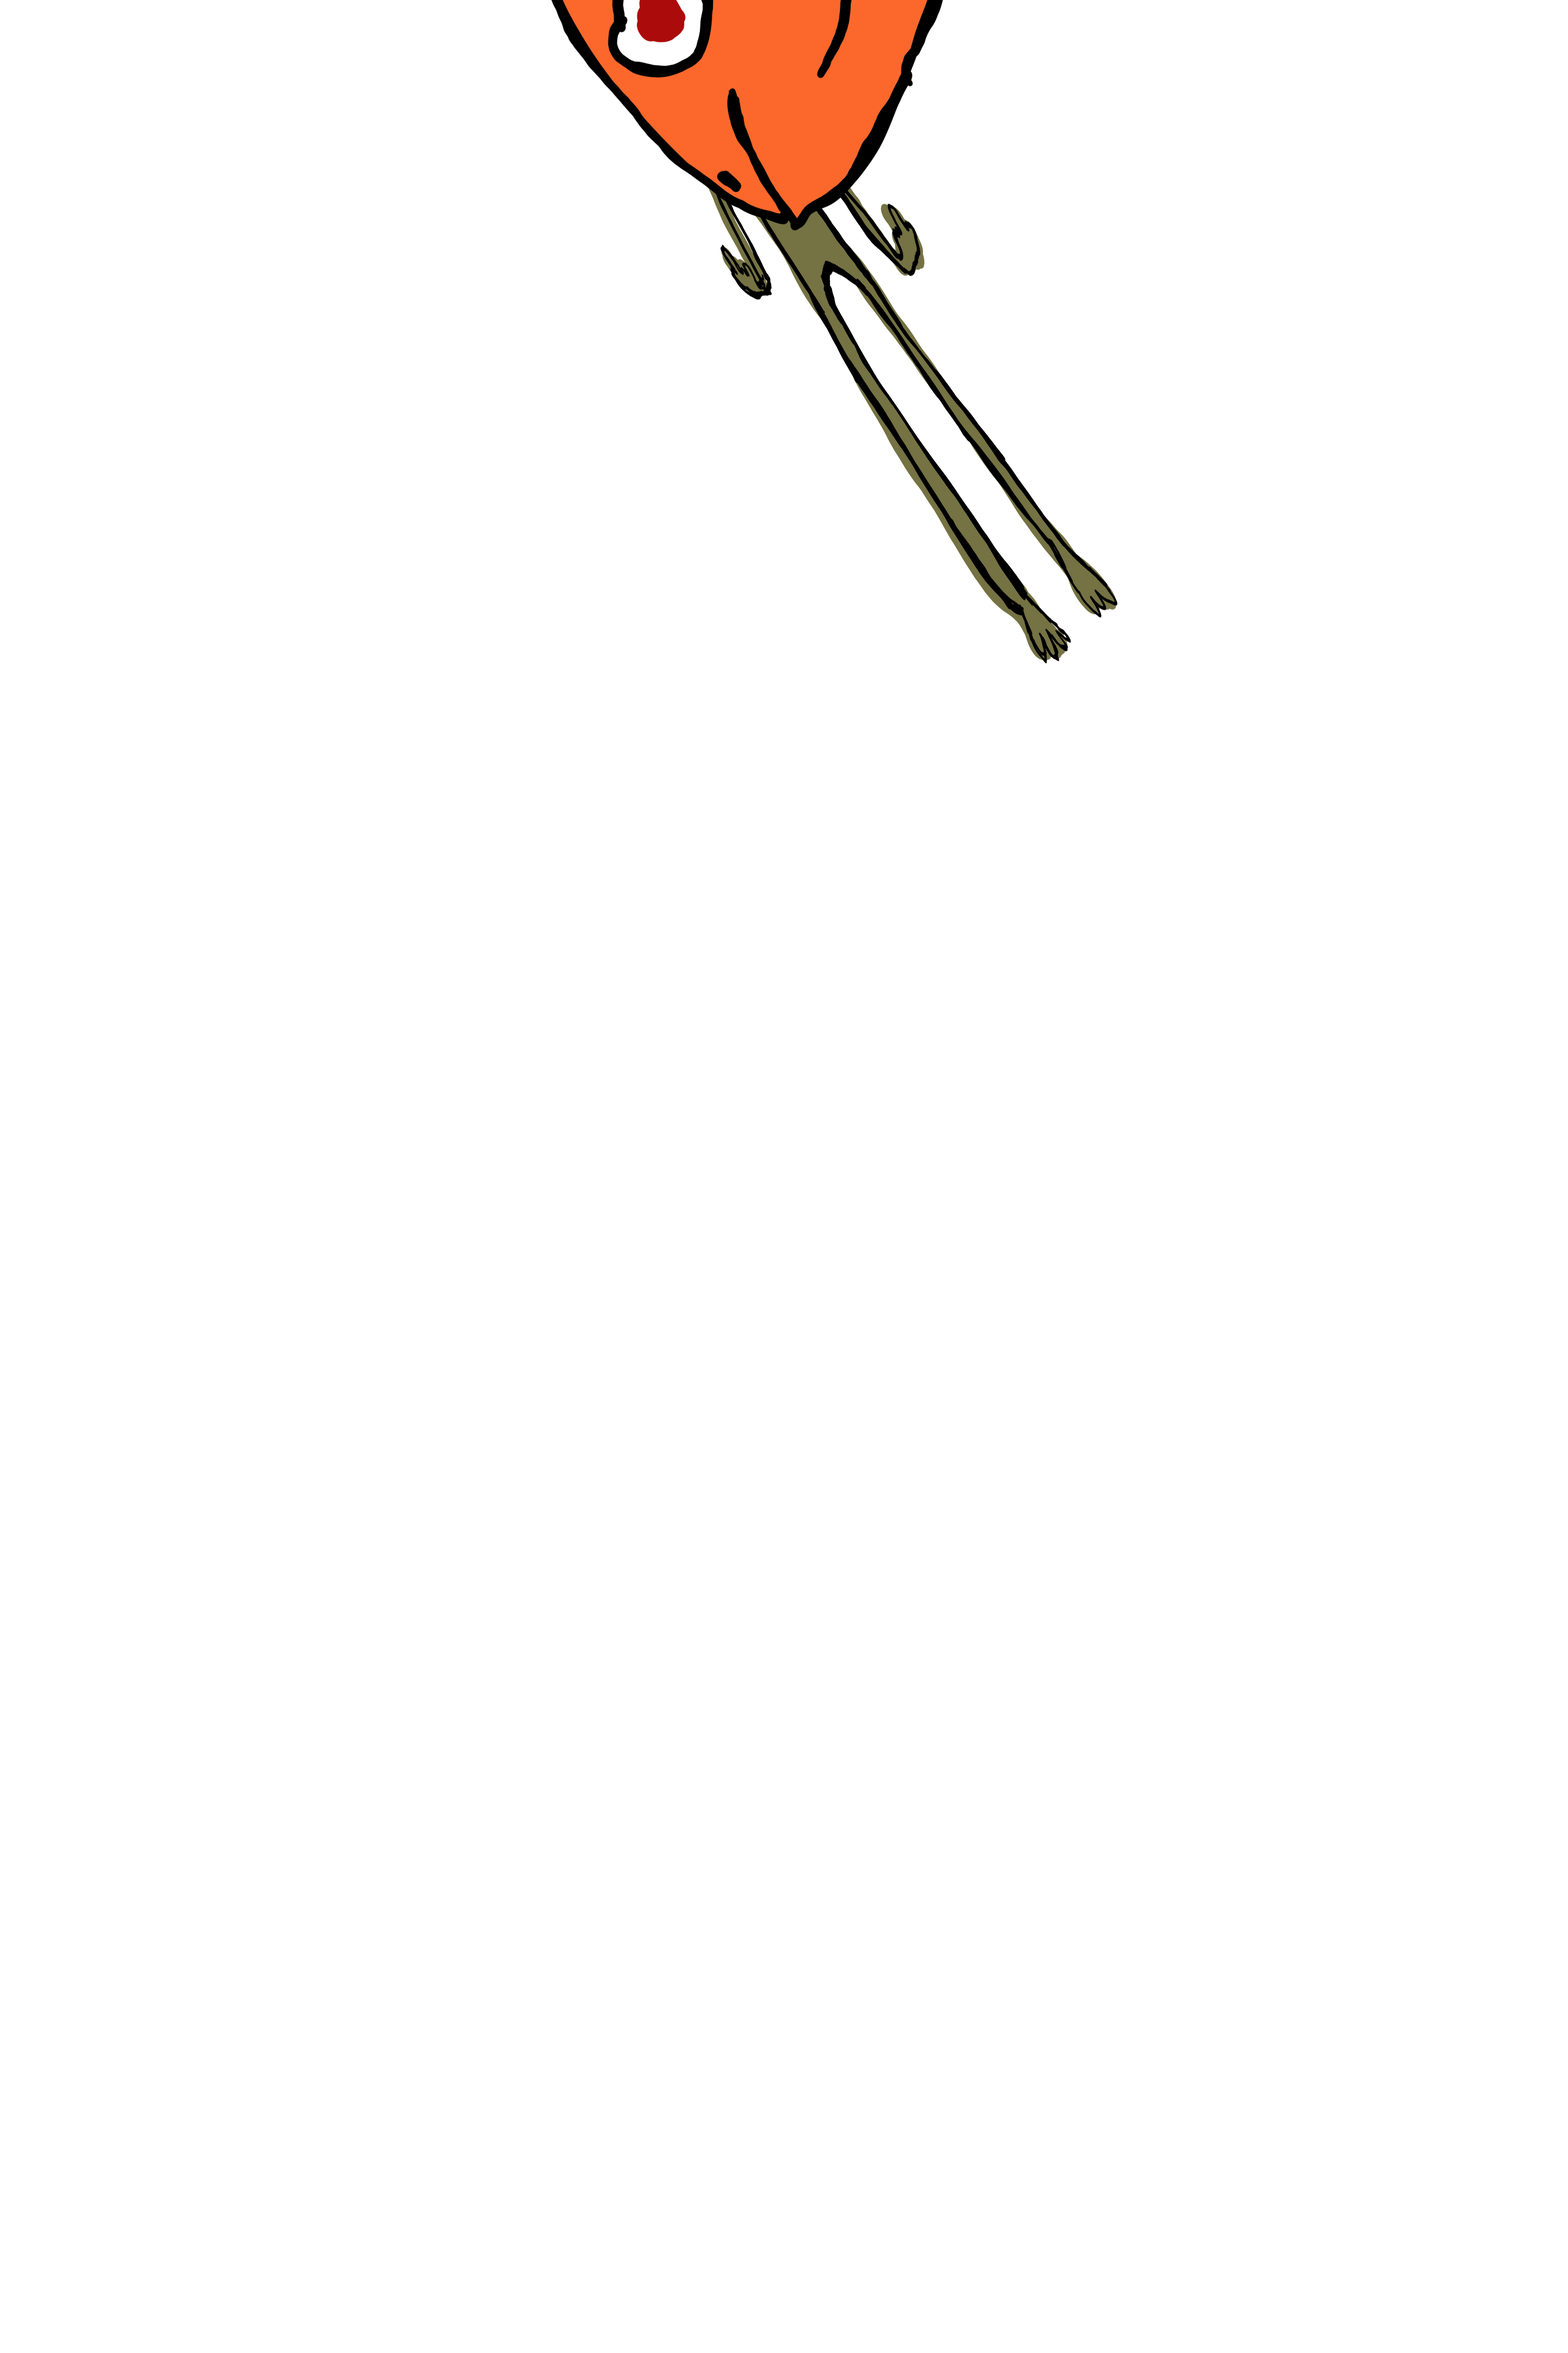
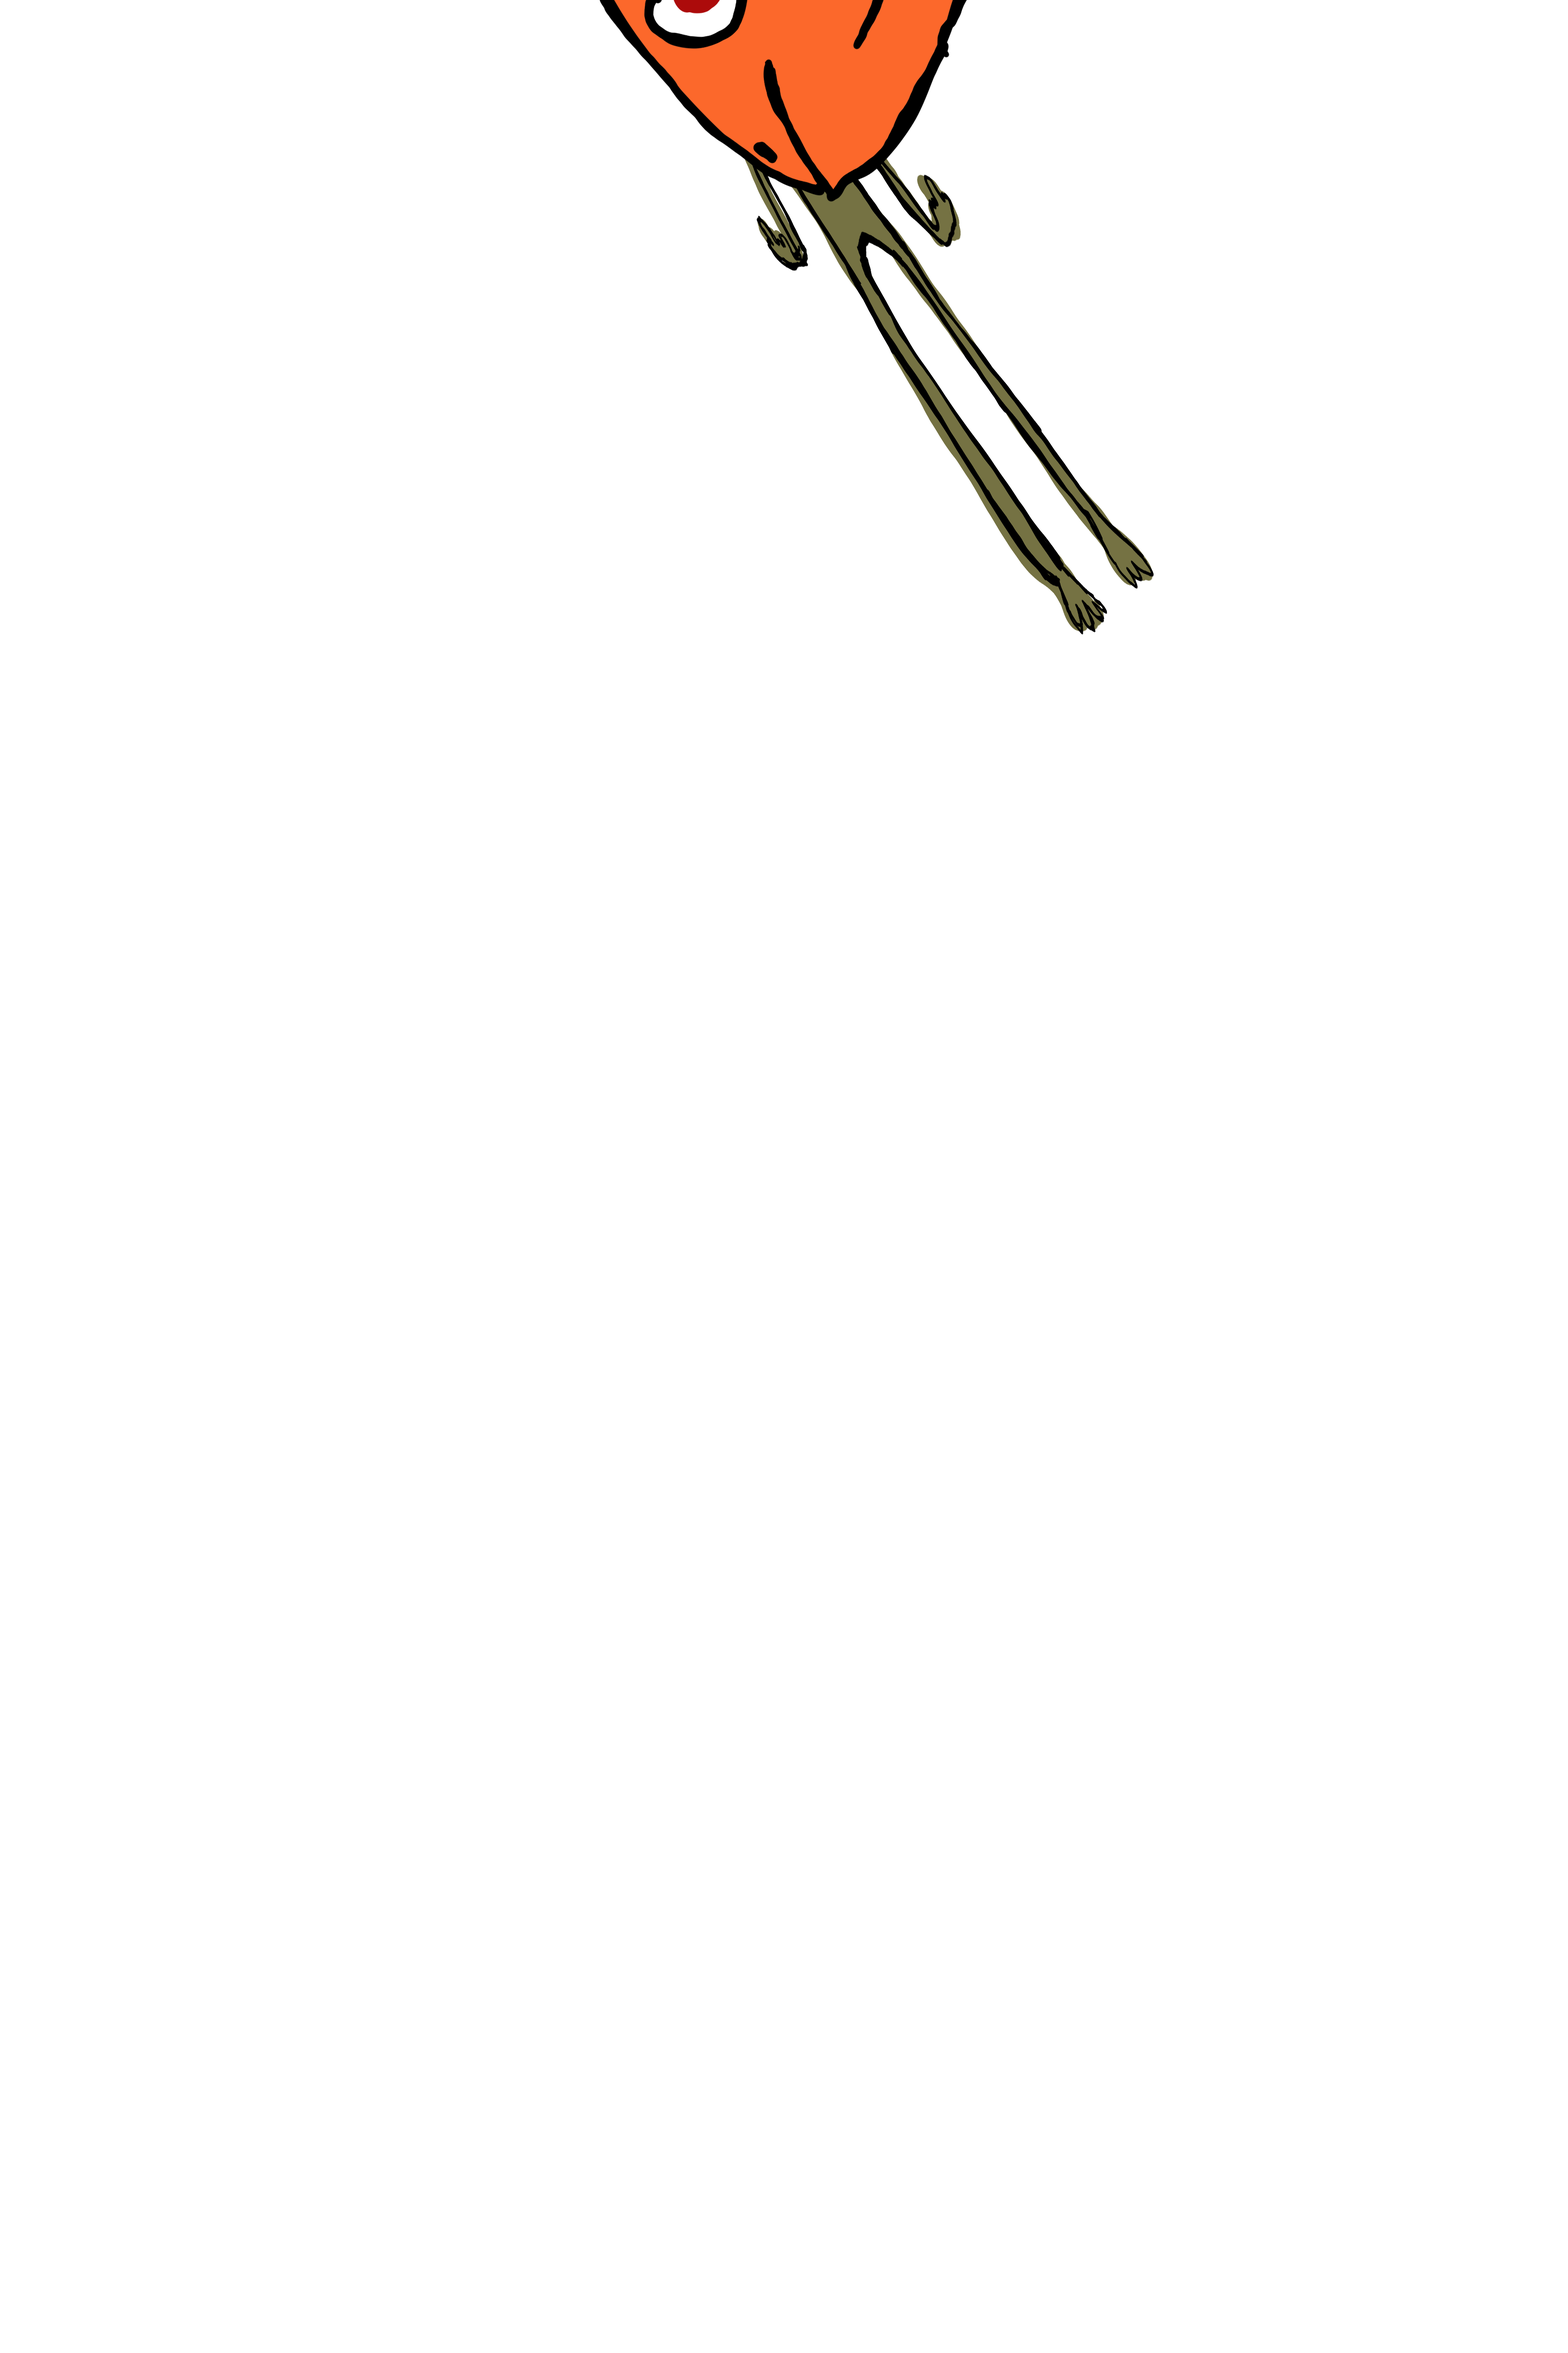
fish and frog
got the fish and frog cleaned up a little bit more

Changed region(s): [[0.3438, 0.0, 0.75, 0.2812]]

diff --git a/my_phenakistoscope.js b/my_phenakistoscope.js
@@ -18,15 +18,15 @@ function setup_layers(pScope){
   
      var layer1 = new PLayer(frogTest);
      layer1.mode(RING)
-     layer1.set_boundary( 4000, 4000 )
+     layer1.set_boundary( 10, 10 )
   
  }
 
 
 
 function frogTest( x, y, animation, pScope) {
-  scale(.12)
-  pScope.draw_image_from_sequence("frogTest", 0, -7000, animation.frame)
+  scale(.1558)
+  pScope.draw_image_from_sequence("frogTest", 0, -4000, animation.frame)
   
 }
 
